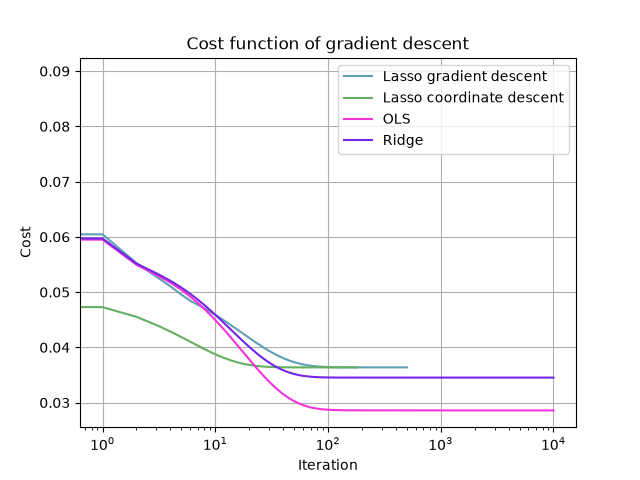
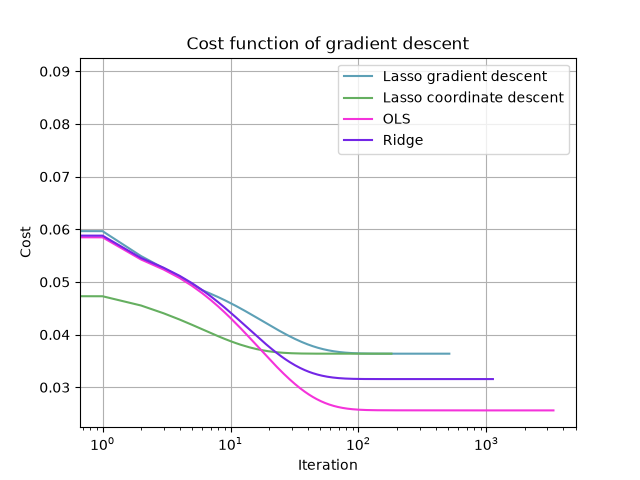
more figures

diff --git a/Project_1/Code/_Part_g.py b/Project_1/Code/_Part_g.py
@@ -20,24 +20,38 @@ theta0 = np.zeros(X.shape[1])
 
 
 """Gradient descent for OLS and Ridge"""
-#the largest safe learning rate for plain gradient descent: gamma < 2 / lambda_max(hessian)
-H_OLS = hessian_eigs(X)
-H_Ridge = hessian_eigs(X, lmbda= lam)
+theta_cf_OLS = closed_form(X, y)
+theta_cf_Ridge = closed_form(X, y, lmbda = lam)
+gamma_list = np.linspace(0.001, 0.4, 40)
 
-gamma_max_OLS = 2.0 / H_OLS.max()
-gamma_max_Ridge = 2.0 / H_Ridge.max()
+diffs_ols, diffs_ridge = [], []
+n_ols, n_ridge = [], []
 
-history_OLS, n_OLS = gradient_descent(X, y, gamma_max_OLS)
-history_Ridge, n_Ridge = gradient_descent(X, y, gamma_max_Ridge, lam)
+for gam in gamma_list:
+    hist_ols, n_steps_ols = gradient_descent(X, y, gam)
+    hist_Ridge, n_steps_Ridge = gradient_descent(X, y, gam, lam)
+
+    diffs_ols.append(np.linalg.norm(hist_ols[-1] - theta_cf_OLS))
+    diffs_ridge.append(np.linalg.norm(hist_Ridge[-1] - theta_cf_Ridge))
+    n_ols.append(n_steps_ols)
+    n_ridge.append(n_steps_Ridge)
+
+n_min_OLS = np.argmin(n_ols)
+n_min_Ridge = np.argmin(n_ridge)
+
+best_gamma_OLS = gamma_list[n_min_OLS]
+best_gamma_Ridge = gamma_list[n_min_Ridge]
+
+history_OLS, n_OLS = gradient_descent(X, y, best_gamma_OLS)
+history_Ridge, n_Ridge = gradient_descent(X, y, best_gamma_Ridge, lam)
 theta_OLS = history_OLS[-1]
 theta_Ridge = history_Ridge[-1]
-
-"""Cost of OLS and Ridge, for each theta value"""
 cost_OLS = cost_history(history_OLS, X, y, penalty="None")
 cost_Ridge = cost_history(history_Ridge, X, y, lmbda=lam, penalty="L2")
 
+
 """Gradient descent"""
-history_lasso_gd, n_lasso_gd = lasso_gd(X, y, gamma_max_Ridge, lmbda = lam)
+history_lasso_gd, n_lasso_gd = lasso_gd(X, y, best_gamma_Ridge, lmbda = lam)
 
 """Coordinate descent"""
 history_lasso_cd, n_lasso_cd = lasso_coordinate_descent(X, y, lmbda=lam)
@@ -87,9 +101,7 @@ plt.show()
 n_train = X.shape[0]
 n_test = X_test.shape[0]
 
-# Final theta for each method
 theta_lasso_gd = history_lasso_gd[-1]
-theta_lasso_cd = history_lasso_cd[-1]
 
 methods = {
     "OLS": theta_OLS,
